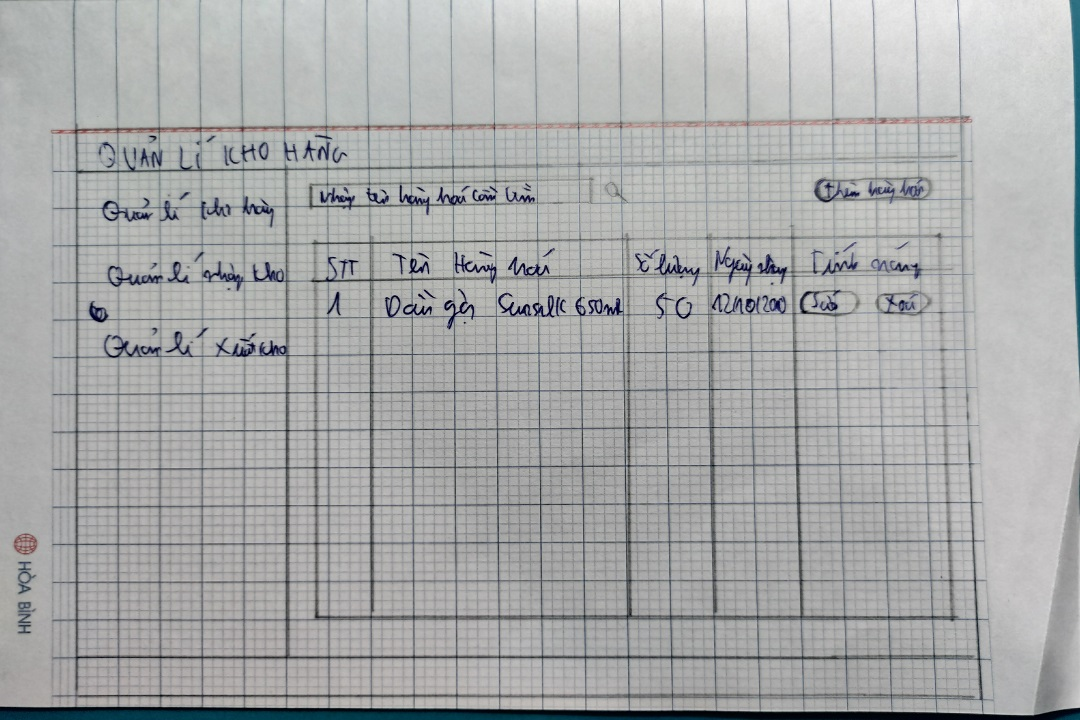
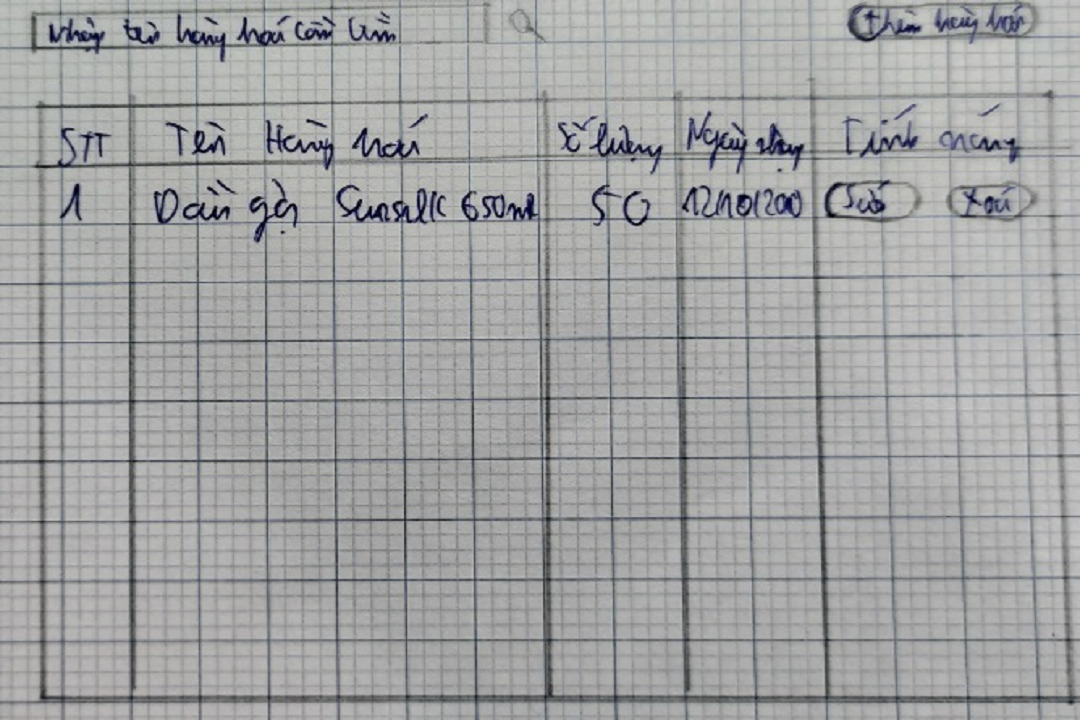
remake lab4

diff --git a/index.html b/index.html
@@ -72,7 +72,7 @@
                 <div class="col-md-8">
                   <p>Tên: Lê Tuấn Kiệt</p>
                   <p>SV trường ĐH Nông Lâm</p>
-                  <button class="button" onclick="location.href= 'about.html'">More about me</button>
+                  <button class="btn btn-primary" onclick="location.href= 'about.html'">More about me</button>
                 </div>
               </div>
             </div>
@@ -235,31 +235,102 @@
       <div class="popup">
         <h2>Lab 4</h2>
         <a class="close" href="#projects">&times;</a>
-        <div class="content">
-          <h3>Requirement</h3>
-          <p style="font-size: 0.8em;">Chọn 1 đối tượng bất kỳ trong thế giới thực, ví dụ như lớp môn học, 
-            giảng viên,… Sau đó thiết kế chức năng Quản lý đối tượng đó trên html 
-            bao gồm các tính năng thêm, sửa, xóa, tìm kiếm cho đối tượng đó. Ví dụ, 
-            làm chức năng Quản lý Sinh viên, bao gôm tính năng thêm, sửa, xóa, tìm kiếm. 
-            Chú ý: Các thành viên trong lớp, trong nhóm không được chọn các đối tượng giống nhau.</p>
-            <h3>Design</h3>
-            <div style="display: flex;">
-              <div style="display: flex;flex-direction: column;float: left;">
-                <img src="assets/images/img-22.jpg" style="width: 90%;height: 90%;" alt="Drawing">
-                <a class="button" href="https://drive.google.com/uc?export=download&id=1rliivbKOU7RYh3kM0K67jgHOGAmWYwJx" style="width: 100px;margin-top: 10px;align-self: center;text-decoration: none;">Download</a>
-              </div>
-              <div style="display: flex;flex-direction: column;">
-                <img src="assets/images/img-33.jpg" style="width: 90%;height: 90%;" alt="Implement">
-                <div style="width: 210px;margin-top: 10px;align-self: center;">
-                  <a class="button" href="https://drive.google.com/uc?export=download&id=177uNqGr4n5q8f_bzURINWZ9ym6Ur8MG5" style="width: 100px;margin-top: 10px;align-self: center;text-decoration: none;" download="image" >Download</a>
-                  <button class="button" style="width: 100px;" onclick="location.href='https://www.figma.com/file/H7oxW0GeCgnjtzjig5Sf49/QuanLiNhapKho?type=design&node-id=0-1&mode=design'">Go to Figma</button>
+        <div class="content" style="height: 500px;">
+          <ul class="tabs">
+            <li>
+              <input id="tabRequirement" type="radio" name="tabs" checked />
+              <label for="tabRequirement">Requirement</label>
+              <div id="tab-panel1" class="tab-panel">
+                <p>Chọn 1 đối tượng bất kỳ trong thế giới thực, ví dụ như lớp môn học, 
+                  giảng viên,… Sau đó thiết kế chức năng Quản lý đối tượng đó trên html 
+                  bao gồm các tính năng thêm, sửa, xóa, tìm kiếm cho đối tượng đó. Ví dụ, 
+                  làm chức năng Quản lý Sinh viên, bao gôm tính năng thêm, sửa, xóa, tìm kiếm. 
+                  Chú ý: Các thành viên trong lớp, trong nhóm không được chọn các đối tượng giống 
+                  nhau.</p>
                 </div>
-              </div>
-            </div>
-            <h3>Implement</h3>
-            <div style="display: flex;justify-content: center;align-items: center;">
-              <button class="button" onclick="location.href= 'https://letuankiet-22130135.github.io/QuanLiNhapKho/'">Link</button>
-            </div>
+              </li>
+              <li>
+                <input id="tabDesign" type="radio" name="tabs" />
+                <label for="tabDesign">Design</label>
+                <div id="tab-panel3" class="tab-panel">
+                  <h3 style="margin-top: 5px;">Drawing</h3>
+                  <div style="display: flex;align-items: center;justify-content: center;flex-direction: column">
+                    <img src="assets/images/img-22.jpg" style="width: 50%;height: 50%;margin: auto;" alt="Drawing">
+                    <button class="btn btn-primary" style="margin-top: 5px;" onclick="location.href='https://drive.google.com/uc?export=download&id=1rliivbKOU7RYh3kM0K67jgHOGAmWYwJx'">Download</button>
+                  </div>
+                  <h3 style="margin-top: 5px;">Figma</h3>
+                  <div style="display: flex;align-items: center;justify-content: center;flex-direction: column">
+                    <img src="assets/images/img-33.jpg" style="width: 50%;height: 50%;margin: auto;" alt="Figma">
+                    <div style="display: flex;margin-top: 5px;">
+                      <button class="btn btn-primary" onclick="location.href='https://www.figma.com/file/UjUYZKzDIEs2pwTr732G11/User-Scenario?type=design&node-id=0-1&mode=design&t=K4sq06se2juhuU9L-0'">Go to Figma</button>
+                      <button class="btn btn-primary" style="margin-left: 5px;" onclick="location.href='https://drive.google.com/uc?export=download&id=177uNqGr4n5q8f_bzURINWZ9ym6Ur8MG5'">Download</button>
+                    </div>
+                  </div>
+                </div>
+              </li>  
+              <li>
+                <input id="tabImplement" type="radio" name="tabs" />
+                <label for="tabImplement">Implement</label>
+                <div id="tab-panel3" class="tab-panel">
+                  <div id="searchAndAdd">
+                    <div style="width: 100%;">
+                      <input type="text" style="width: 60%;" placeholder="Nhập tên hàng hóa cần tìm...">
+                      <span class="ico-mglass"></span>
+                    </div> 
+                    <button class="btn btn-primary">Thêm hàng hóa</button>
+                  </div> 
+                  <table style="margin-top: 5px;">
+                    <tr>
+                      <th style="width: 10%;">STT</th>
+                      <th>Tên hàng hóa</th> 
+                      <th style="width: 20%;">Số lượng</th>
+                      <th>Ngày nhập</th>
+                    </tr>
+                    <tr>
+                      <td>1</td>
+                      <td>Dầu gội Sunsilk 650ml</td>
+                      <td>50</td>
+                      <td>12/10/2010</td>
+                    </tr>
+                    <tr>
+                      <td>2</td>
+                      <td>Bột giặt OMO 3kg</td>
+                      <td>110</td>
+                      <td>8/9/2010</td>
+                    </tr>
+                    <tr>
+                      <td>3</td>
+                      <td>Nước khoáng Aquafina 1l</td>
+                      <td>87</td>
+                      <td>13/12/2010</td>
+                    </tr>
+                    <tr>
+                      <td>4</td>
+                      <td>Mì tôm Hảo Hảo thung 30 goi 75g</td>
+                      <td>65</td>
+                      <td>16/1/2011</td>
+                    </tr>
+                    <tr>
+                      <td>5</td>
+                      <td>Nước lau sàn Sunlight 5l</td>
+                      <td>40</td>
+                      <td>20/1/2011</td>
+                    </tr>
+                    <tr>
+                      <td>6</td>
+                      <td>Hộp bánh ChocoPie</td>
+                      <td>47</td>
+                      <td>1/2/2011</td>
+                    </tr>
+                  </table>
+                  <div style="display: flex;margin-top: 5px;align-items: end;justify-content: end;">
+                    <button class="btn btn-primary">Sửa</button>
+                    <button class="btn btn-primary" style="margin-left: 5px;">Xóa</button>
+                  </div>
+                </div>
+              </li>  
+            </ul>
+            
           </div>
         </div>
       </div>
@@ -278,8 +349,8 @@
                   <img src="./assets/images/UserScenario.jpg" class="img-responsive" alt="User Scenario" style="margin: auto;">
                   <h3>Design</h3>
                   <img src="./assets/images/UserScenarioDesign.jpg" class="img-responsive" alt="User Scenario Design" style="margin: auto;">
-                  <div style="display: flex;align-items: center;justify-content: center;">
-                    <button class="button" style="width: 100px;" onclick="location.href='https://www.figma.com/file/UjUYZKzDIEs2pwTr732G11/User-Scenario?type=design&node-id=0-1&mode=design&t=T5YmUdtCDAo9gQfJ-0'">Go to Figma</button>
+                  <div style="display: flex;align-items: center;justify-content: center;margin-top: 10px;">
+                    <button class="btn btn-primary" onclick="location.href='https://www.figma.com/file/UjUYZKzDIEs2pwTr732G11/User-Scenario?type=design&node-id=0-1&mode=design&t=T5YmUdtCDAo9gQfJ-0'">Go to Figma</button>
                   </div>
                 </div>
               </li>

diff --git a/main.d8e0d294.css b/main.d8e0d294.css
@@ -120,4 +120,44 @@
   display: block;
 }
 
+#searchAndAdd {
+  display: flex;
+  justify-content: space-between;
+  margin-top: 10px;
+}
+
+.ico-mglass {
+  margin-left: 1px;
+  position:relative;
+  display:inline-block;
+  background: #fff;
+  border-radius: 30px;
+  height: 10px;
+  width: 10px;
+  border: 2px solid #888;
+  
+  &:after {
+    content: "";
+    height: 2px;
+    width: 6px;
+    background: #888;
+    position:absolute;
+    top:7px;
+    left:5px;
+    transform: rotate(45deg);
+  }
+}
+table {
+  width: 100%;
+}
+
+table,th,td {
+  border: 1px solid black;
+  border-collapse: collapse;
+}
+
+th,td {
+  text-align: center;
+}
+
 
